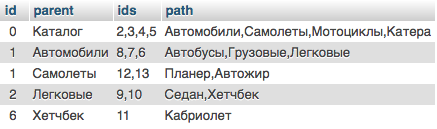
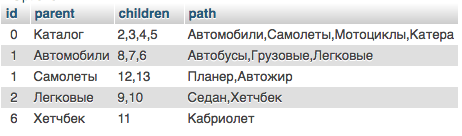
DB data

diff --git a/public/tree.php b/public/tree.php
@@ -10,7 +10,7 @@ $pdo = new PDO("mysql:host=localhost;dbname=test;charset=utf8", "root", "");
 $pdo->setAttribute(PDO::ATTR_ERRMODE, PDO::ERRMODE_EXCEPTION);
 $pdo->setAttribute(PDO::ATTR_DEFAULT_FETCH_MODE, PDO::FETCH_OBJ);
 
-$stmt = $pdo->prepare('SELECT (SELECT parent_category_id FROM category WHERE id=c.parent_category_id) id, (SELECT name FROM category WHERE id=c.parent_category_id) parent, GROUP_CONCAT(c.id) ids, GROUP_CONCAT(c.name) path FROM `category` c WHERE c.parent_category_id>0 GROUP BY c.parent_category_id');
+$stmt = $pdo->prepare('SELECT (SELECT parent_category_id FROM category WHERE id=c.parent_category_id) id, (SELECT name FROM category WHERE id=c.parent_category_id) parent, GROUP_CONCAT(c.id) children, GROUP_CONCAT(c.name) path FROM `category` c WHERE c.parent_category_id>0 GROUP BY c.parent_category_id');
 $stmt->execute();
 $rows = $stmt->fetchAll();
 

diff --git a/readme.md b/readme.md
@@ -142,7 +142,7 @@ SELECT
             id = c.parent_category_id
       )
       parent,
-      GROUP_CONCAT(c.id) ids,
+      GROUP_CONCAT(c.id) children,
       GROUP_CONCAT(c.name) path 
    FROM
       category c 
